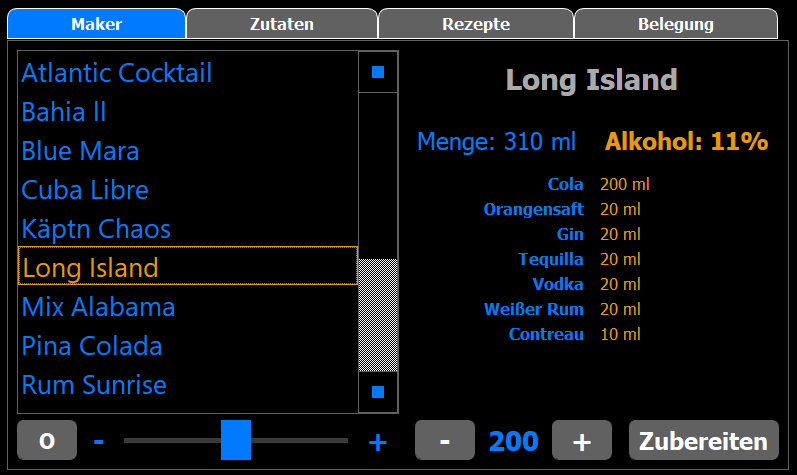
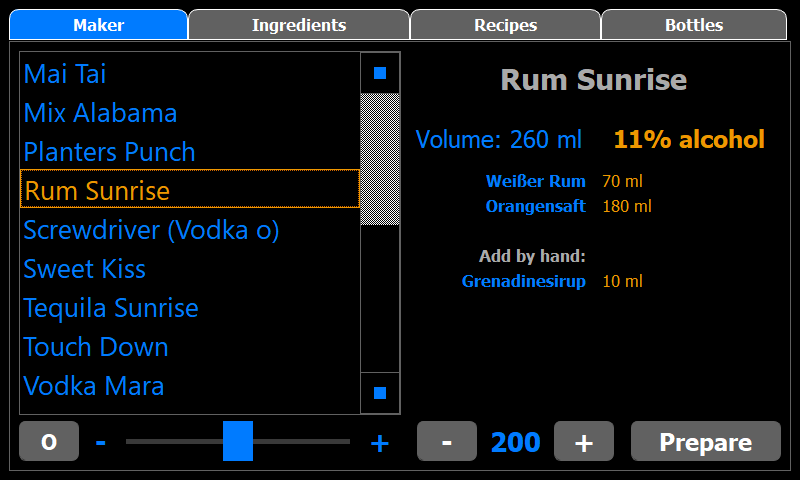
Added english version of interface pictures

Changed region(s): [[0.0, 0.0, 0.9937, 1.0], [0.5721, 0.3537, 0.813, 0.7368], [0.6023, 0.1474, 0.8733, 0.2063]]

diff --git a/readme.md b/readme.md
@@ -307,7 +307,7 @@ I've noticed when running as root (sudo python3) and running as the pi user (pyt
 
 ## Microservices
 
-As an further addition there is the option to run a microservice within docker which handles some networking topics.
+As an further addition since `version 1.1`, there is the option to run a microservice within docker which handles some networking topics.
 Currently this is limited to:
 
 - Posting the cocktailname, used volume and current time to a given webhook
